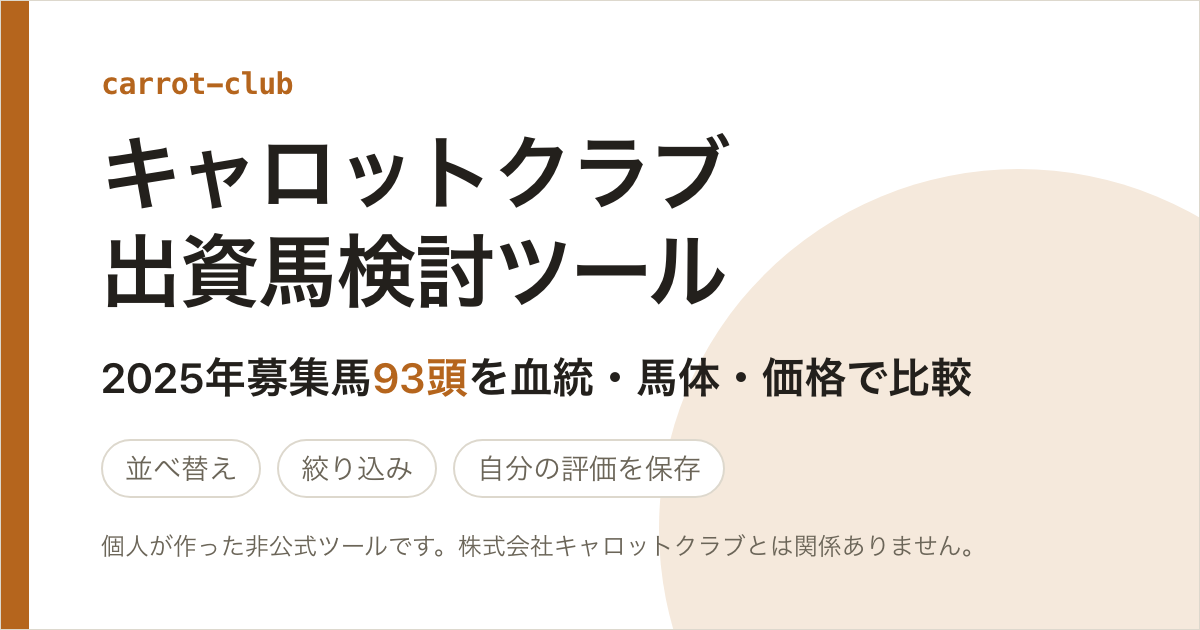
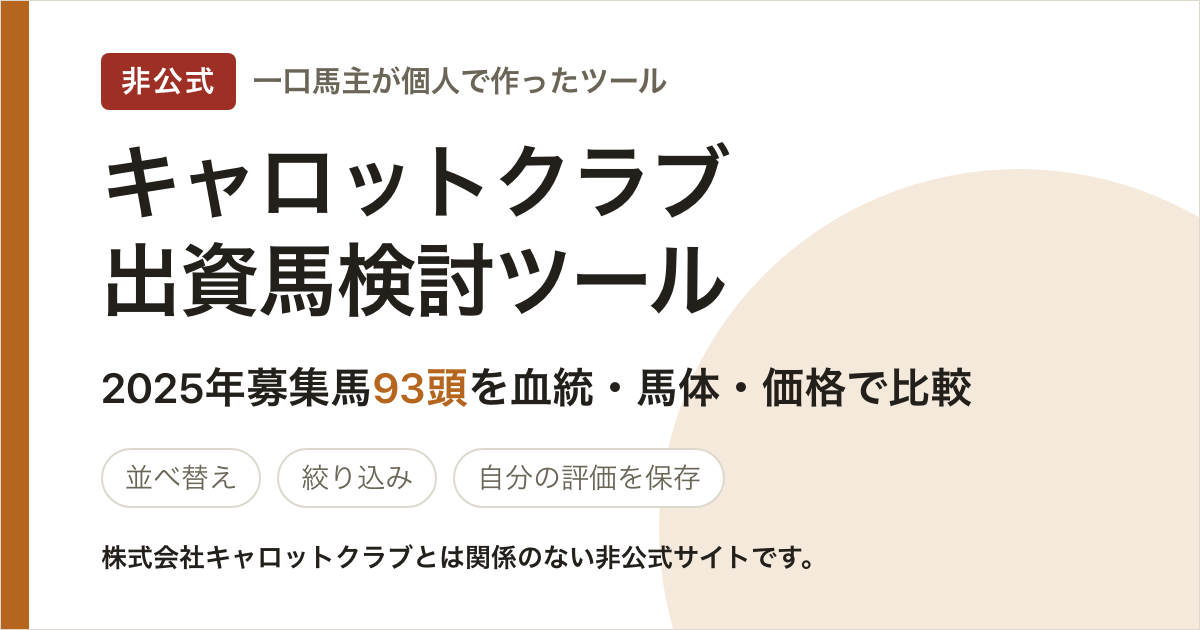
feat: 許可が下りるまで noindex にし、非公式であることを全面に出す
クラブへの利用許可が未取得のため、検索エンジンへのインデックスを止める。
併せて公式と誤認されないよう表示を強化した（本人の指示 / 2026-08-11）。

## noindex
- src/consts.ts に ALLOW_INDEXING を追加し、false の間は全ページに noindex を出す。
  許可が下りたらこの1か所を true にするだけでよい。
- robots.txt はクロール許可のまま維持する。Disallow にするとクローラーがページを
  読めず noindex に気づけないまま、URLだけが検索結果に載りうるため。意図をファイルに明記した。

## 非公式の強調
- タブ・検索結果・SNSカードに出る名前をすべて【非公式】付きに（title / og:title /
  twitter:title / og:site_name / JSON-LDのname）
- ヘッダーにサイト名と並べて赤い「非公式」バッジを常時表示し、注記もヘッダーへ移動
  （全ページに出るので、index側の重複表示は削除）
- OGP画像にも「非公式」バッジを追加し、注記の文字を大きく
- 説明文と注記の文言を「クラブが提供・監修するものではない」まで踏み込んで明確化

## 修正
- OGP画像の「非公式」バッジが表示されていなかった。og-card.html に --danger が未定義で、
  白文字が白背景に埋もれていた。変数を追加。
- ダークテーマの --danger は明るいサーモンで、白文字だとコントラストが約2.3:1しか出ず
  WCAG AA(4.5:1)未満だった。ダーク時は文字色を暗色に反転。

## 検証
テスト37件 / astro check 0エラー / ブラウザ実機19項目すべてPASS。
noindexが両ページに出ていること、93頭とnetkeibaリンク93本が維持されていることを確認。

diff --git a/src/consts.ts b/src/consts.ts
@@ -7,14 +7,35 @@
  */
 export const SITE_URL = 'https://carrot-club.mineponz.workers.dev';
 
+/**
+ * 検索エンジンにインデックスさせるか。
+ *
+ * **クラブへの利用許可が下りるまでは false**（本人の判断 / 2026-08-11）。
+ * false の間は全ページに `noindex` を出す。
+ *
+ * 注意: `noindex` は**クロールされて初めて読まれる**。robots.txt で Disallow すると
+ * クローラーがページを読めず noindex に気づけないため、URLだけが検索結果に載りうる。
+ * したがって robots.txt はクロール許可のまま維持すること（public/robots.txt のコメント参照）。
+ *
+ * 許可が下りたらここを true にするだけでよい。
+ */
+export const ALLOW_INDEXING = false;
+
+/** アプリ名。構造化データやフッターなど「名前」として扱う場所で使う */
 export const SITE_TITLE = 'キャロットクラブ出資馬検討ツール';
+
+/** 公式と誤認されないよう、タイトル・OGP・タブ表示には必ずこの接頭辞を付ける */
+export const UNOFFICIAL_PREFIX = '【非公式】';
+
+/** ブラウザのタブ・検索結果・SNSカードに出す名前 */
+export const DOCUMENT_TITLE = `${UNOFFICIAL_PREFIX}${SITE_TITLE}`;
 
 /** 一覧ページ（トップ）の title に付ける説明。検索結果でクリックされるかを左右する */
 export const SITE_TAGLINE = '2025年募集馬93頭を血統・馬体・価格で比較';
 
 export const SITE_DESCRIPTION =
-  '2025年キャロットクラブ募集馬93頭を、父・母父・体高・胸囲・管囲・馬体重・一口価格・厩舎で並べ替え、絞り込みできる非公式の出資馬検討ツール。自分の評価（A〜E・お気に入り・消・メモ）はブラウザに保存され、netkeibaやXの検索へもすぐ飛べます。';
+  '【非公式】2025年キャロットクラブ募集馬93頭を、父・母父・体高・胸囲・管囲・馬体重・一口価格・厩舎で並べ替え、絞り込みできる出資馬検討ツール。一口馬主が個人で作ったもので、株式会社キャロットクラブとは関係ありません。自分の評価（A〜E・お気に入り・消・メモ）はブラウザに保存され、netkeibaやXの検索へもすぐ飛べます。';
 
 /** 公式との混同を避けるための注記。表示とメタ情報の両方で使う */
 export const UNOFFICIAL_NOTICE =
-  'このサイトは一口馬主が個人で作った非公式ツールです。株式会社キャロットクラブとは関係ありません。';
+  'このサイトは一口馬主が個人で作った非公式ツールです。株式会社キャロットクラブとは関係がなく、クラブが提供・監修するものではありません。出資の判断は必ずクラブ公式の情報でご確認ください。';

diff --git a/scripts/og-card.html b/scripts/og-card.html
@@ -25,6 +25,7 @@
         --muted: #6b6558;
         --accent: #b5651d;
         --accent-weak: #f5e9dc;
+        --danger: #9d2f24;
         --mono: ui-monospace, SFMono-Regular, "SF Mono", Menlo, Consolas, monospace;
         --sans: -apple-system, BlinkMacSystemFont, "Hiragino Kaku Gothic ProN",
           "Noto Sans JP", "Yu Gothic", sans-serif;
@@ -93,13 +94,26 @@
         padding: 56px 72px;
       }
 
+      /* 公式と誤認されないよう、カードの一番上に赤いバッジで「非公式」を出す */
       .wordmark {
+        display: flex;
+        align-items: center;
+        gap: 16px;
         margin: 0 0 24px;
-        font-family: var(--mono);
         font-size: 30px;
         font-weight: 600;
-        letter-spacing: -0.02em;
-        color: var(--accent);
+        letter-spacing: -0.01em;
+        color: var(--muted);
+      }
+
+      .wordmark .badge {
+        background: var(--danger);
+        color: #fff;
+        font-size: 30px;
+        font-weight: 700;
+        letter-spacing: 0.06em;
+        padding: 6px 20px;
+        border-radius: 8px;
       }
 
       h1 {
@@ -142,9 +156,10 @@
 
       .notice {
         margin: 30px 0 0;
-        font-size: 24px;
+        font-size: 26px;
+        font-weight: 600;
         line-height: 1.5;
-        color: var(--muted);
+        color: var(--text);
       }
     </style>
   </head>
@@ -155,7 +170,7 @@
       <div class="blob"></div>
 
       <div class="inner">
-        <p class="wordmark">carrot-club</p>
+        <p class="wordmark"><span class="badge">非公式</span>一口馬主が個人で作ったツール</p>
 
         <h1>キャロットクラブ<br />出資馬検討ツール</h1>
 
@@ -170,7 +185,7 @@
         </ul>
 
         <p class="notice">
-          個人が作った非公式ツールです。株式会社キャロットクラブとは関係ありません。
+          株式会社キャロットクラブとは関係のない非公式サイトです。
         </p>
       </div>
     </div>
